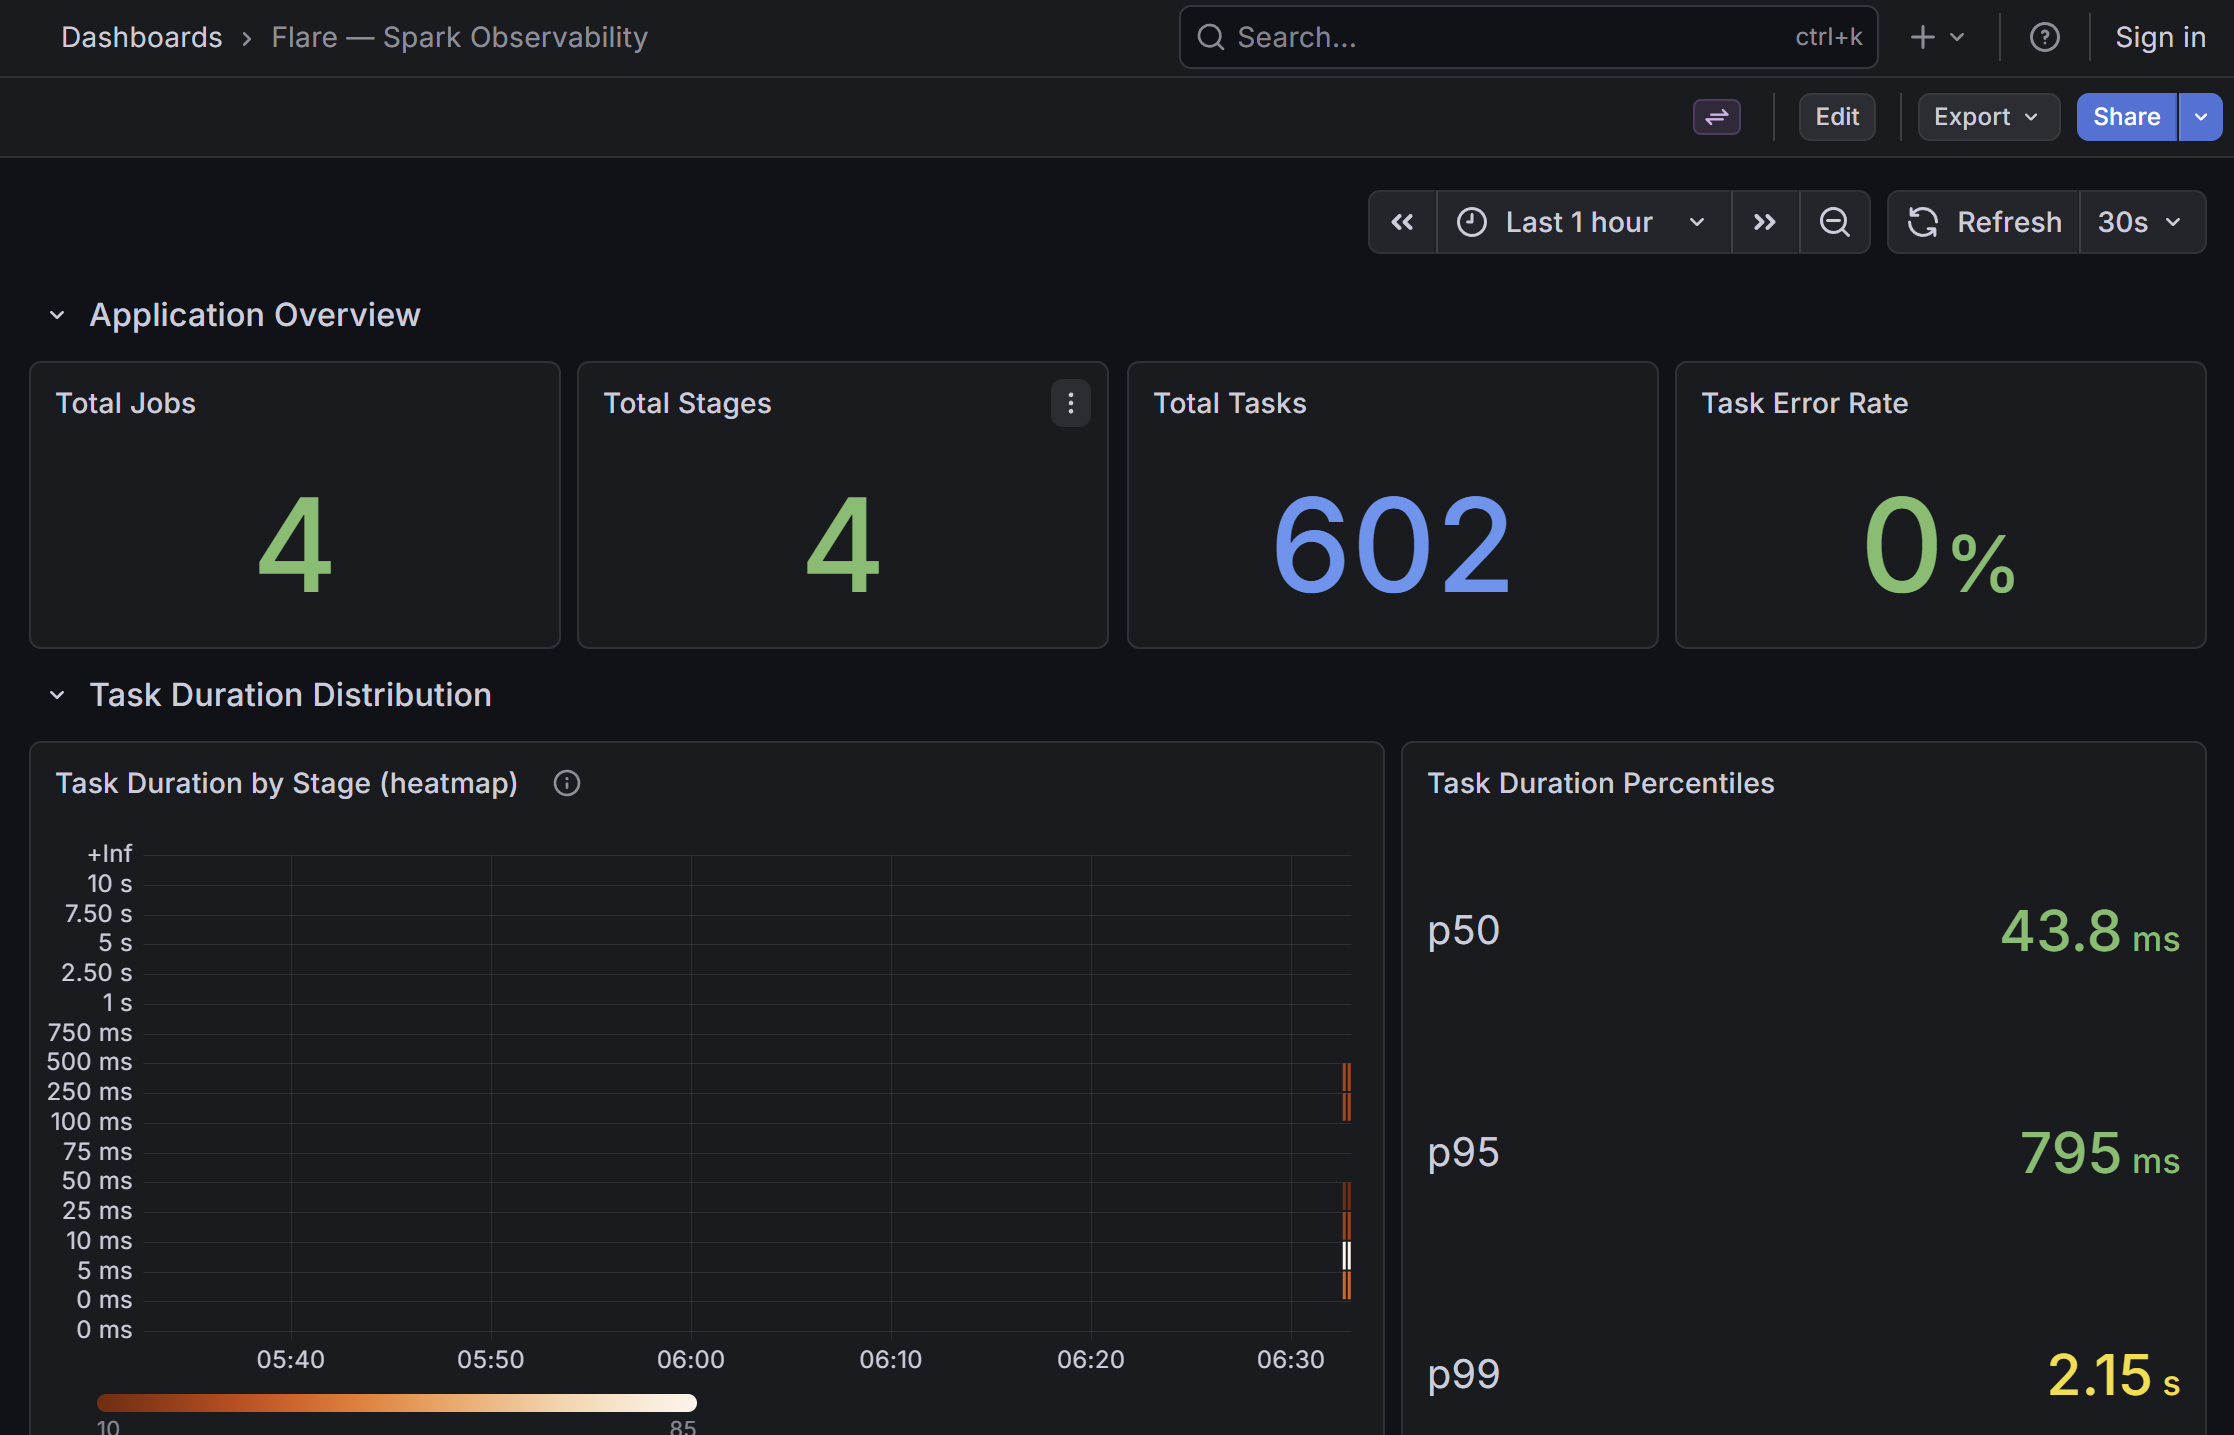
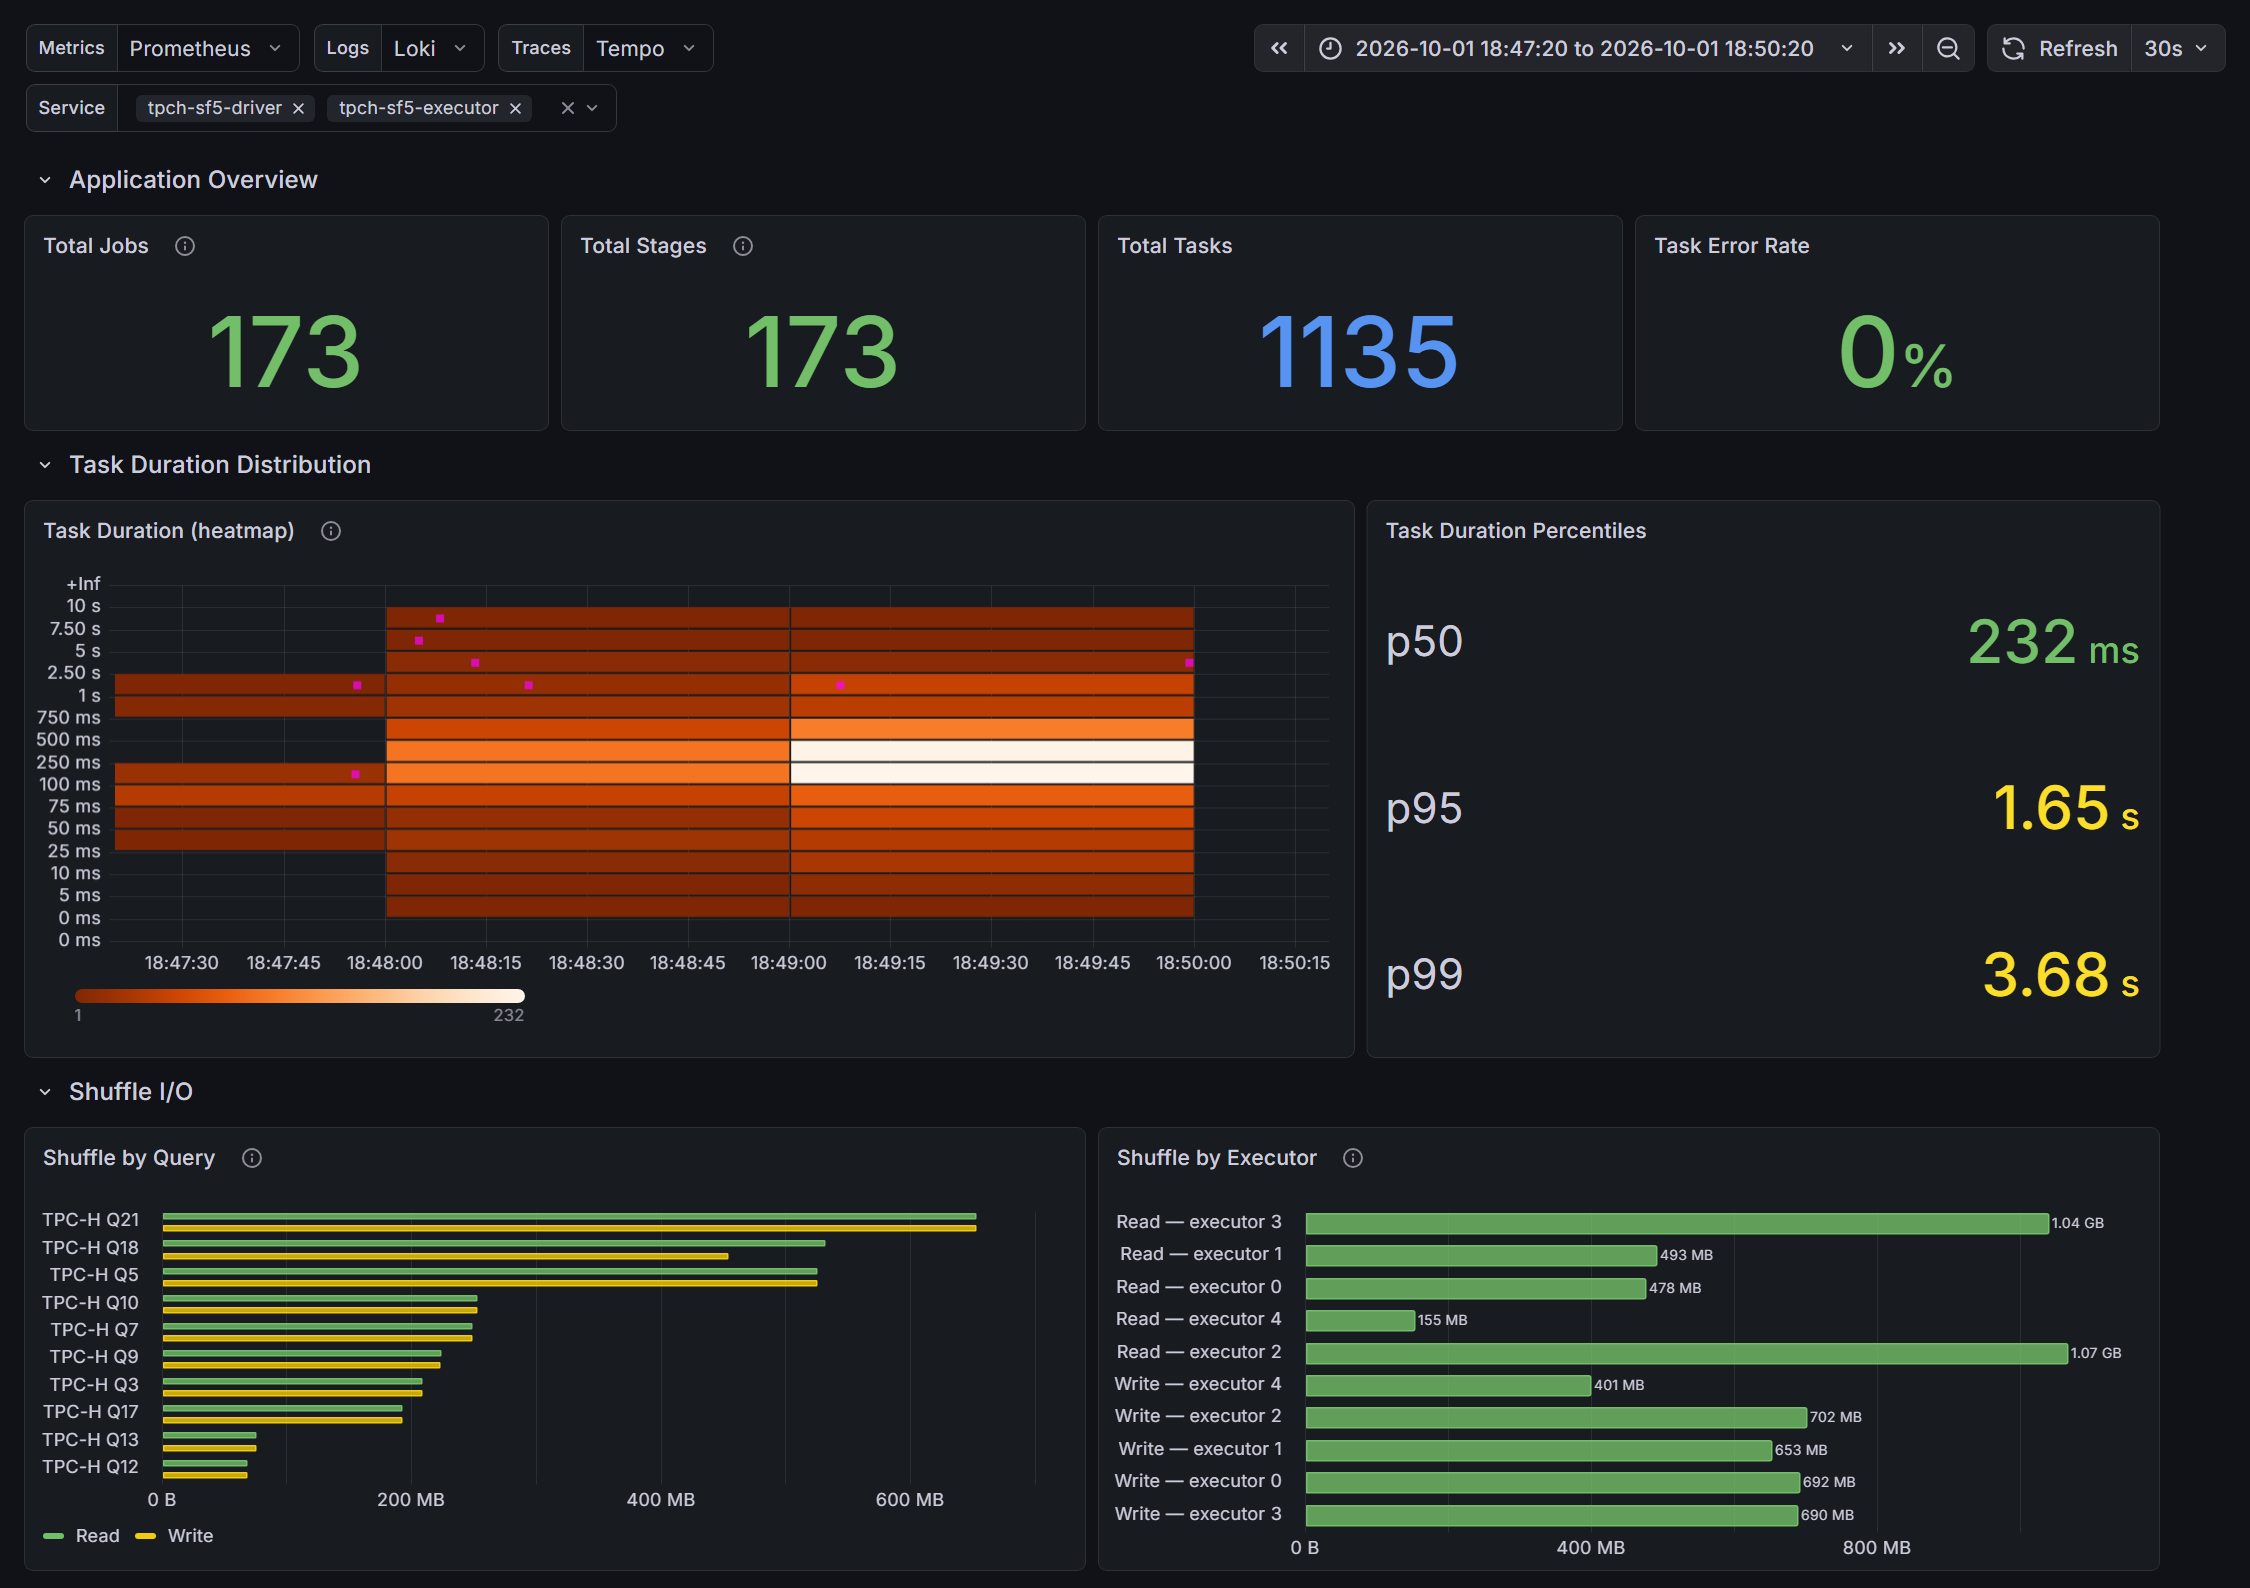
Make the shipped dashboard work in any Grafana; refresh the screenshots (#164) (#165)

diff --git a/benchmarks/tpch.py b/benchmarks/tpch.py
@@ -140,8 +140,11 @@ while True:
     per_query = {}
     for number, sql in queries.items():
         q = time.time()
+        # Names the query in the Spark UI and on Flare's spans and metrics (sql.description).
+        spark.sparkContext.setJobDescription(f"TPC-H Q{number}")
         rows = spark.sql(sql).collect()
         per_query[number] = {"seconds": time.time() - q, "rows": len(rows)}
+    spark.sparkContext.setJobDescription(None)
     record = {"seconds": time.time() - t, "queries": per_query}
     record.update(stage_cpu.new() or {})
     if args.minutes:

diff --git a/docs/reference/metrics.md b/docs/reference/metrics.md
@@ -61,3 +61,23 @@ trace. Under `FLARE_SLOW_TASK_MS` the metric is recorded *after* the suppressed 
 so a fast task still contributes to the histogram but carries no exemplar pointing at a trace that
 was never exported. Some backends drop exemplars by default: Mimir's
 `max_global_exemplars_per_user` is `0` unless you set it.
+
+## In Prometheus
+
+Prometheus-compatible backends rename the instruments: dots become underscores, and most add the
+unit, so `flare.task.duration` is stored as `flare_task_duration_milliseconds_bucket` and
+`flare.stage.input.bytes` as `flare_stage_input_bytes_total`. Mimir's OTLP ingestion leaves the
+unit off by default (`flare_task_duration_bucket`, `flare_stage_input_bytes`). Labels follow the
+same rule: `executor.id` becomes `executor_id`, and `service.name` becomes `job`.
+
+## Dashboard
+
+The repository ships a Grafana dashboard,
+[`flare-spark.json`](https://github.com/Neutrinic/flare/blob/main/docker/grafana/provisioning/dashboards/flare-spark.json).
+Import it under **Dashboards → New → Import**, then pick your metrics, logs and traces data
+sources and the services to show at the top. It reads the metric names with or without the unit,
+so it works on Prometheus, Mimir and Grafana Cloud alike.
+
+The job count comes from Tempo's span metrics, which need its
+[metrics generator](https://grafana.com/docs/tempo/latest/metrics-from-traces/metrics-generator/);
+without it, that panel stays empty and the rest still work.

diff --git a/CHANGELOG.md b/CHANGELOG.md
@@ -7,6 +7,14 @@ and this project adheres to [Semantic Versioning](https://semver.org/spec/v2.0.0
 
 ## [Unreleased]
 
+### Fixed
+- **The shipped dashboard works in any Grafana**, not only the local stack. It hard-coded the
+  local stack's data sources, and read metric names without units, which only Mimir stores;
+  Prometheus and the `grafana/otel-lgtm` image store `flare_task_duration_milliseconds_bucket`,
+  so every panel was empty. It now asks for its metrics, logs and traces data sources, reads either
+  naming, and filters every panel, the logs and the trace list by the services picked at the top,
+  so other applications in the same backend no longer count ([#164])
+
 ## [1.3.0] - 2026-09-29
 
 ### Added
@@ -574,3 +582,4 @@ and this project adheres to [Semantic Versioning](https://semver.org/spec/v2.0.0
 [#141]: https://github.com/Neutrinic/flare/issues/141
 [#145]: https://github.com/Neutrinic/flare/issues/145
 [#148]: https://github.com/Neutrinic/flare/issues/148
+[#164]: https://github.com/Neutrinic/flare/issues/164

diff --git a/README.md b/README.md
@@ -45,8 +45,8 @@ with metrics and logs linked to it. Everything is exported over OTLP to any back
 - **Metrics:** task duration histograms with exemplar links to their traces, shuffle and stage
   totals, and cluster lifecycle metrics.
 - **Logs:** driver and executor logs linked to the span that wrote them.
-- **No code changes:** two JARs on every node and a few `--conf` lines. A Grafana dashboard is
-  included.
+- **No code changes:** two JARs on every node and a few `--conf` lines. A [Grafana dashboard](https://neutrinic.github.io/flare/reference/metrics/#dashboard)
+  is included, for any Prometheus-compatible backend.
 
 ![Traces](docs/assets/traces.png)
 
